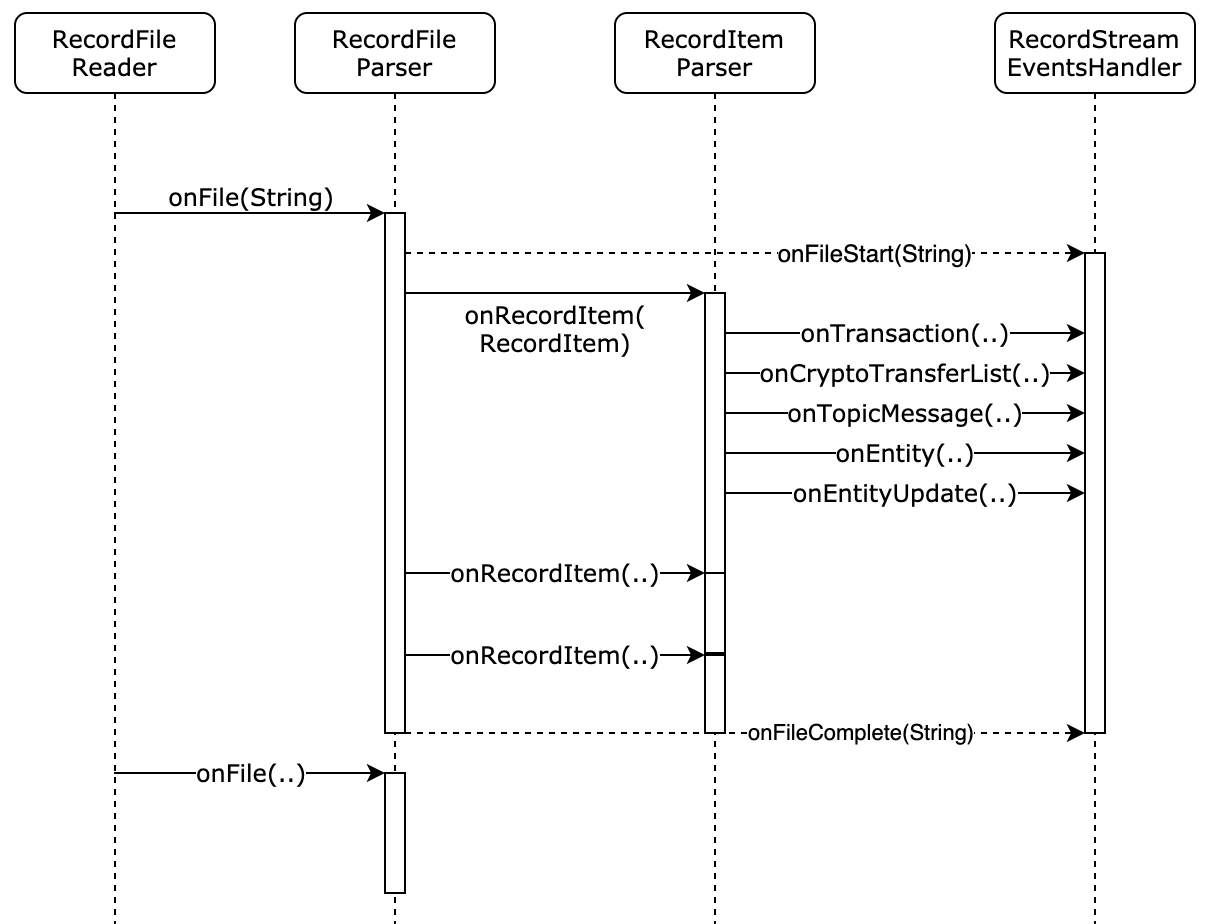
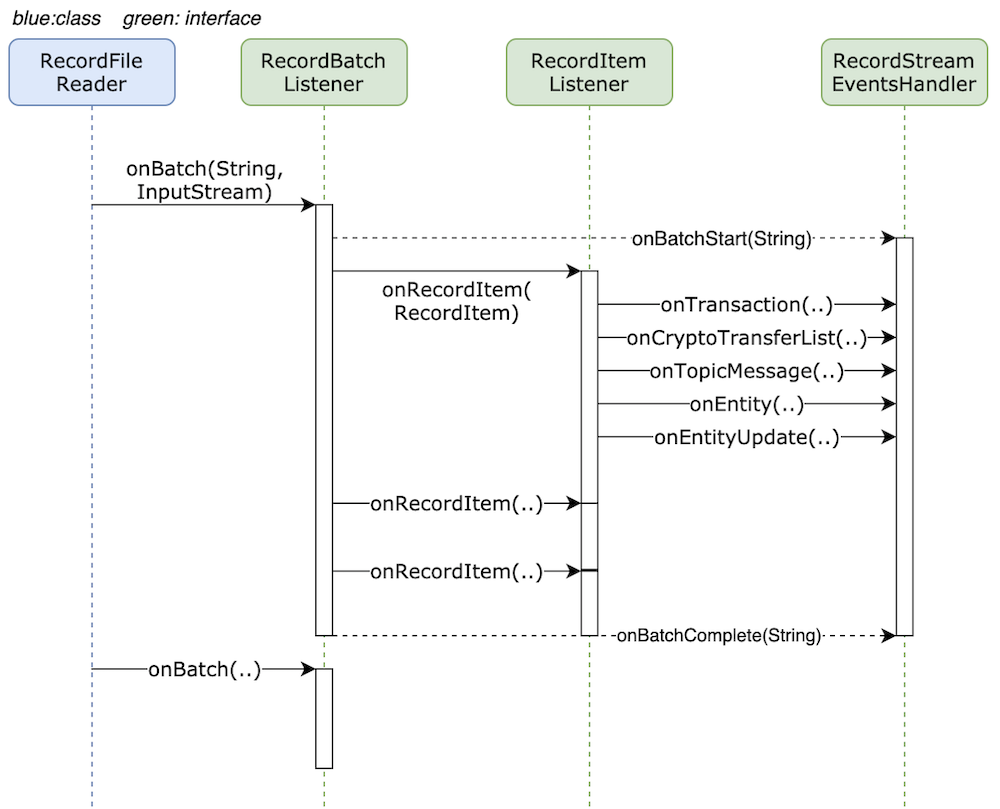
add interfaces

diff --git a/docs/design/parser.md b/docs/design/parser.md
@@ -26,7 +26,7 @@ SQL Database client is tightly coupled with transaction & record's processor whi
 
 ![Data Flow](images/parser-events-hander-data-flow.png)
 
--   Record files --> RecordFileReader --> RecordFileParser --> RecordItemParser --> RecordStreamEventsHandler --> DB
+-   Record files --> RecordFileReader --> RecordFileListener --> RecordItemListener --> RecordStreamEventsHandler --> DB
 
 #### Control Flow
 
@@ -64,15 +64,11 @@ public interface BalanceEventsHandler extends StreamEventsHandler {
         - For `data-generator` to generate custom stream files for testing: end-to-end importer perf test, parser + db
           perf test, isolated parser micro-benchmark, etc
 
-### RecordItemParser
+### RecordItemListener
 
 ```java
-public class RecordItemParser {
-    private final RecordStreamEventsHandler RecordStreamEventsHandler;  // injected dependency
-
-    public void onRecordItem(RecordItem recordItem) throws ImporterException {
-        // process recordItem
-    }
+public interface RecordItemListener {
+    void onRecordItem(RecordItem recordItem) throws ImporterException;
 }
 ```
 
@@ -85,27 +81,49 @@ public class RecordItem {
 }
 ```
 
+#### RecordItemParser
+
+```java
+public class RecordItemParser implements RecordItemListener {
+    private final RecordStreamEventsHandler RecordStreamEventsHandler;  // injected dependency
+
+    public void onRecordItem(RecordItem recordItem) throws ImporterException {
+        // process recordItem
+    }
+}
+```
+
 1. Parse `Transaction` and `TransactionRecord` in the `recordItem`
 1. Calls `onTransaction`/`onEntity`/`onEntityUpdate`/`onTopicMessage`/`onCryptoTransferLists` etc
 
-### RecordFileParser
+### RecordBatchListener
 
 ```java
-public class RecordFileParser {
+// 'Batch' can be a stream file, gossip events, etc
+public interface RecordBatchListener {
+    void onBatch(String batchName, InputStream inputStream);
+}
+```
 
-    private final RecordItemParser recordItemParser;  // injected dependency
+#### RecordFileParser
+
+```java
+// Parses transactions batched together in a *stream file*
+public class RecordFileParser implements RecordBatchListener {
+
+    private final RecordItemListener recordItemListener;  // injected dependency
     private final StreamEventsHandler streamEventsHandler;  // injected dependency
 
-    public void onFile(String filename, InputStream inputStream) {
+    void onBatch(String filename, InputStream inputStream) {
         // process stream file
     }
 }
 ```
 
-1. On each call to `onFile(filename, inputStream)`:
+1. On each call to `onBatch(filename, inputStream)`:
     1. Call `streamEventsHandler.onBatchStart(filename)`
     1. Validate prev hash
-    1. For each set of `Transaction` and `TransactionRecord` in record file, call `recordItemParser.onRecordItem(recordItem)`.
+    1. For each set of `Transaction` and `TransactionRecord` in record file, call `recordItemListener.onRecordItem(recordItem)`.
     1. Finally call `streamEventsHandler.onBatchComplete(filename)`
     1. On exceptions, call `streamEventsHandler.onError(error)`
 
@@ -120,7 +138,7 @@ public class RecordFileReader extends FileWatcher {
     public void onCreate() {
         // List files
         // Open the file on disk, create InputStream on it. Keep RecordFileParser filesystem agnostic.
-        recordFileParser.onFile(filename, inputStream);
+        recordFileParser.onBatch(filename, inputStream);
     }
 }
 ```
@@ -131,7 +149,6 @@ public class RecordFileReader extends FileWatcher {
    that indeed turns out to be the case, then I see at least two possibilities: - Use manual connection(s) to COPY to t_transactions, t_cryptotransferlists, topic_message, other write heavy tables.
    And use Spring Repositories for other tables. However, that raises the question of consistency of data across multiple
    transactions (since there are multiple connections). - Use COPY and PreparedStatement over single connection
-1. How to do entity updates using Spring data?
 
 ## Tasks (in suggested order):
 
@@ -148,20 +165,20 @@ public class RecordFileReader extends FileWatcher {
 
 All top level tasks can be done in parallel
 
-1. Perf benchmarks
-    1. Move database abstractions to `hedera.mirror.repository` package from where they can be shared by importer, grpc, data-generator.
-        - Replace `PostgresCSVDomainWriter` by `PostgresWritingRecordStreamEventsHandler` to test db insert performance and establish baseline
-1. Optimize `PostgresWritingRecordStreamEventsHandler`
-    - Schema changes to remove entity ids
-    - Get rid of all `SELECT` queries in parser
-    - Use of `COPY`
-    - Concurrency using multiple jdbc connections
+1. Perf
+    1. Replace `PostgresCSVDomainWriter` by `PostgresWritingRecordStreamEventsHandler` to test db insert performance and establish baseline
+    1. Optimize `PostgresWritingRecordStreamEventsHandler`
+        - Schema changes to remove entity ids
+        - Get rid of all `SELECT` queries in parser
+        - Use of `COPY`
+        - Concurrency using multiple jdbc connections
 1. Refactor `RecordItemParser` class. Split parsing logic into re-usable helper functions.
     - Will make it easy for mirror node users to write custom parsers
     - Will make it possible to have filtering logic less loosely coupled with parsing logic
 1. Split `RecordFileParser` class into two
     - Move FileSystem related code into `RecordFileReader`
     - Keep `RecordFileParser` agnostic of source of stream files
+1. Implement `BigQueryWritingRecordStreamEventsHandler` for `blockchain-etl` project (if needed)
 
 #### Milestone 3 (followup tasks to tie loose ends)
 
